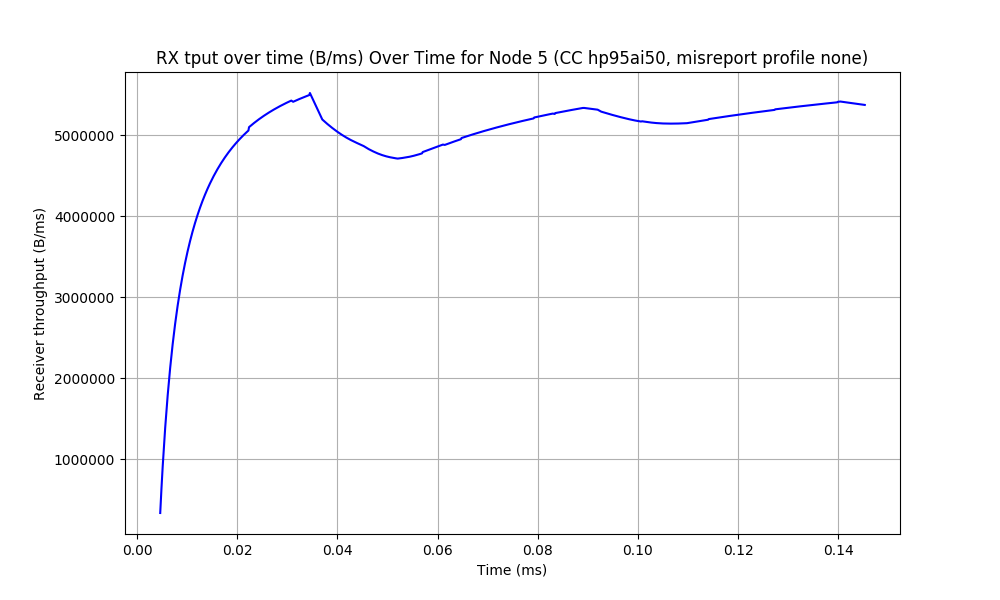
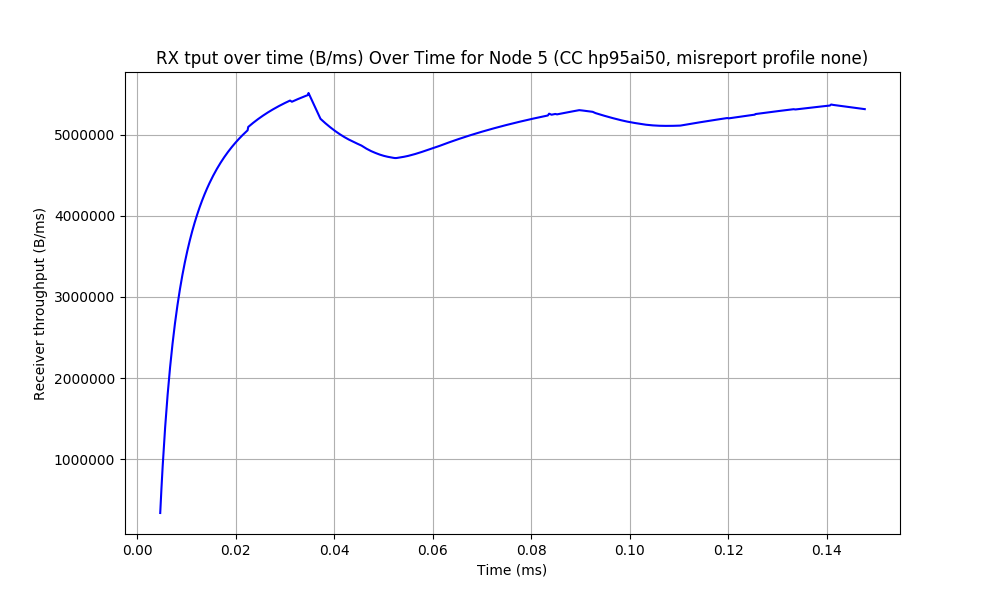
Generate graphs for one-way trip times and power (tput / ott)

diff --git a/analysis/graph/rx_power_graph.py b/analysis/graph/rx_power_graph.py
@@ -1,0 +1,109 @@
+import argparse
+from typing import List, Tuple
+
+from graph_helpers import (
+    get_file_suffix,
+    get_graph_title,
+    get_mix_trace_filename,
+    get_out_png_filename,
+    plot_data_points,
+    get_baseline_interpolation
+)
+
+def process_rx_pkt_trace_file(file_name, node_num):
+    # type: (str, int) -> Tuple[List[int], List[int], List[int]]
+    times = []
+    times_sent = []
+    rx_pkt_szs = []
+
+    with open(file_name, 'r') as file:
+        # timestamp, node_id, sip, dip, sport, dport, packet_size, time_sent
+        # 4496 6 0b000001 0b000601 10000 79 1562 1234
+        for line in file:
+            toks = line.split()
+            if len(toks) < 8:
+                print('skipping {}'.format(line))
+                continue
+            time_ns = int(toks[0]) # time in ns
+            node = int(toks[1]) # node number
+            rx_pkt_sz = int(toks[6]) # packet size in bytes
+            time_sent_ns = int(toks[7]) # time before sent in ns
+
+            if node == node_num:
+                times.append(time_ns)
+                times_sent.append(time_sent_ns)
+                rx_pkt_szs.append(rx_pkt_sz)
+
+    print(len(times))
+    return times, times_sent, rx_pkt_szs
+
+if __name__ == '__main__':
+    parser = argparse.ArgumentParser(description='graph throughput over time')
+    parser.add_argument('--node', dest='node', action='store', type=int, default=0, help="node id")
+    parser.add_argument('--flow', dest='flow', action='store', default='flow', help="the name of the flow file")
+    parser.add_argument('--bw', dest="bw", action='store', default='100', help="the NIC bandwidth")
+    parser.add_argument('--topo', dest='topo', action='store', default='fat', help="the name of the topology file")
+    parser.add_argument('--misrep', dest='misrep', action='store', default='none', help="the name of the misreporting profile file")
+    parser.add_argument('--cc_algo', dest='cc_algo', action='store', default='hp95ai50', help="CC algo with params")
+    args = parser.parse_args()
+
+    node_num = args.node
+    topo=args.topo
+    misrep=args.misrep
+    flow=args.flow
+    cc_algo = args.cc_algo
+
+    file_suffix = get_file_suffix(topo=topo, flow=flow, cc_algo=cc_algo, misrep=misrep)
+    trace_file = get_mix_trace_filename(trace_name='receiver_packet_rx', file_suffix=file_suffix)
+
+    times, times_sent, rx_pkt_szs = process_rx_pkt_trace_file(file_name=trace_file, node_num=node_num)
+    if not times:
+        print("no receiver data for node {}. Are you sure this is a receiver?".format(node_num))
+        exit(1)
+
+    times_ms = [t / 1e6 for t in times]
+    times_sent_ms = [t / 1e6 for t in times_sent]
+    # normalize: start from 0 for tput
+    norm_times_ms = [t / 1e6 for t in times]
+    # cumulative received bytes
+    cumul_rx_bytes = [0 for _ in times_ms]
+    cumul_rx_bytes[0] = rx_pkt_szs[0]
+    for i in range(1, len(rx_pkt_szs)):
+        cumul_rx_bytes[i] = cumul_rx_bytes[i-1] + rx_pkt_szs[i]
+
+    otts_ms = [
+        t_arr - t_sent
+        for (t_arr, t_sent) in zip(times_ms, times_sent_ms)
+    ]
+    tput_b_ms = [
+        tbytes / t
+        for (t, tbytes) in zip(norm_times_ms, cumul_rx_bytes)
+        if norm_times_ms != 0
+    ]
+    
+    powers = []
+    for i in range(1, len(times_ms)):
+        t_ms = times_ms[i]
+        ott_ms = otts_ms[i]
+        tput = tput_b_ms[i-1]
+        powers.append(tput / ott_ms)
+
+    graph_title = get_graph_title(
+        metric_name='Power (tput/delay, B/ms^2)',
+        node_num=node_num,
+        cc_algo=cc_algo,
+        misrep=misrep,
+    )
+    out_png_name = get_out_png_filename(
+        graph_metric='rx_power',
+        file_suffix=file_suffix,
+        node_num=node_num,
+    )
+    plot_data_points(
+        times=times_ms[1:],
+        data_points=powers,
+        xlabel='Time (ms)',
+        ylabel='Power at receiver (B/ms^2)',
+        title=graph_title,
+        out_file_name=out_png_name,
+    )

diff --git a/analysis/graph/rx_ott_graph.py b/analysis/graph/rx_ott_graph.py
@@ -1,0 +1,95 @@
+import argparse
+from typing import List, Tuple
+
+from graph_helpers import (
+    get_file_suffix,
+    get_graph_title,
+    get_mix_trace_filename,
+    get_out_png_filename,
+    plot_data_points,
+)
+
+def process_rx_pkt_trace_file(file_name, node_num):
+    # type: (str, int) -> Tuple[List[int], List[int], List[int]]
+    times = []
+    times_sent = []
+    rx_pkt_szs = []
+
+    with open(file_name, 'r') as file:
+        # timestamp, node_id, sip, dip, sport, dport, packet_size, time_sent
+        # 4496 6 0b000001 0b000601 10000 79 1562 1234
+        for line in file:
+            toks = line.split()
+            if len(toks) < 8:
+                print('skipping {}'.format(line))
+                continue
+            time_ns = int(toks[0]) # time in ns
+            node = int(toks[1]) # node number
+            rx_pkt_sz = int(toks[6]) # packet size in bytes
+            time_sent_ns = int(toks[7]) # time before sent in ns
+
+            if node == node_num:
+                times.append(time_ns)
+                times_sent.append(time_sent_ns)
+                rx_pkt_szs.append(rx_pkt_sz)
+
+    print(len(times))
+    return times, times_sent, rx_pkt_szs
+
+if __name__ == '__main__':
+    parser = argparse.ArgumentParser(description='graph throughput over time')
+    parser.add_argument('--node', dest='node', action='store', type=int, default=0, help="node id")
+    parser.add_argument('--flow', dest='flow', action='store', default='flow', help="the name of the flow file")
+    parser.add_argument('--bw', dest="bw", action='store', default='100', help="the NIC bandwidth")
+    parser.add_argument('--topo', dest='topo', action='store', default='fat', help="the name of the topology file")
+    parser.add_argument('--misrep', dest='misrep', action='store', default='none', help="the name of the misreporting profile file")
+    parser.add_argument('--cc_algo', dest='cc_algo', action='store', default='hp95ai50', help="CC algo with params")
+    args = parser.parse_args()
+
+    node_num = args.node
+    topo=args.topo
+    misrep=args.misrep
+    flow=args.flow
+    cc_algo = args.cc_algo
+
+    file_suffix = get_file_suffix(topo=topo, flow=flow, cc_algo=cc_algo, misrep=misrep)
+    trace_file = get_mix_trace_filename(trace_name='receiver_packet_rx', file_suffix=file_suffix)
+
+    times, times_sent, rx_pkt_szs = process_rx_pkt_trace_file(file_name=trace_file, node_num=node_num)
+    if not times:
+        print("no receiver data for node {}. Are you sure this is a receiver?".format(node_num))
+        exit(1)
+
+    times_ms = [t / 1e6 for t in times]
+    times_sent_ms = [t / 1e6 for t in times_sent]
+    # normalize: start from 0 for tput
+    norm_times_ms = [t / 1e6 for t in times]
+    # cumulative received bytes
+    cumul_rx_bytes = [0 for _ in times_ms]
+    cumul_rx_bytes[0] = rx_pkt_szs[0]
+    for i in range(1, len(rx_pkt_szs)):
+        cumul_rx_bytes[i] = cumul_rx_bytes[i-1] + rx_pkt_szs[i]
+
+    otts_ms = [
+        t_arr - t_sent
+        for (t_arr, t_sent) in zip(times_ms, times_sent_ms)
+    ]
+    graph_title = get_graph_title(
+        metric_name='One-way trip time (ms)',
+        node_num=node_num,
+        cc_algo=cc_algo,
+        misrep=misrep,
+    )
+    out_png_name = get_out_png_filename(
+        graph_metric='rx_ott',
+        file_suffix=file_suffix,
+        node_num=node_num,
+    )
+    plot_data_points(
+        times=times_ms,
+        data_points=otts_ms,
+        xlabel='Time (ms)',
+        ylabel='One-way trip time (B/ms)',
+        title=graph_title,
+        out_file_name=out_png_name,
+    )
